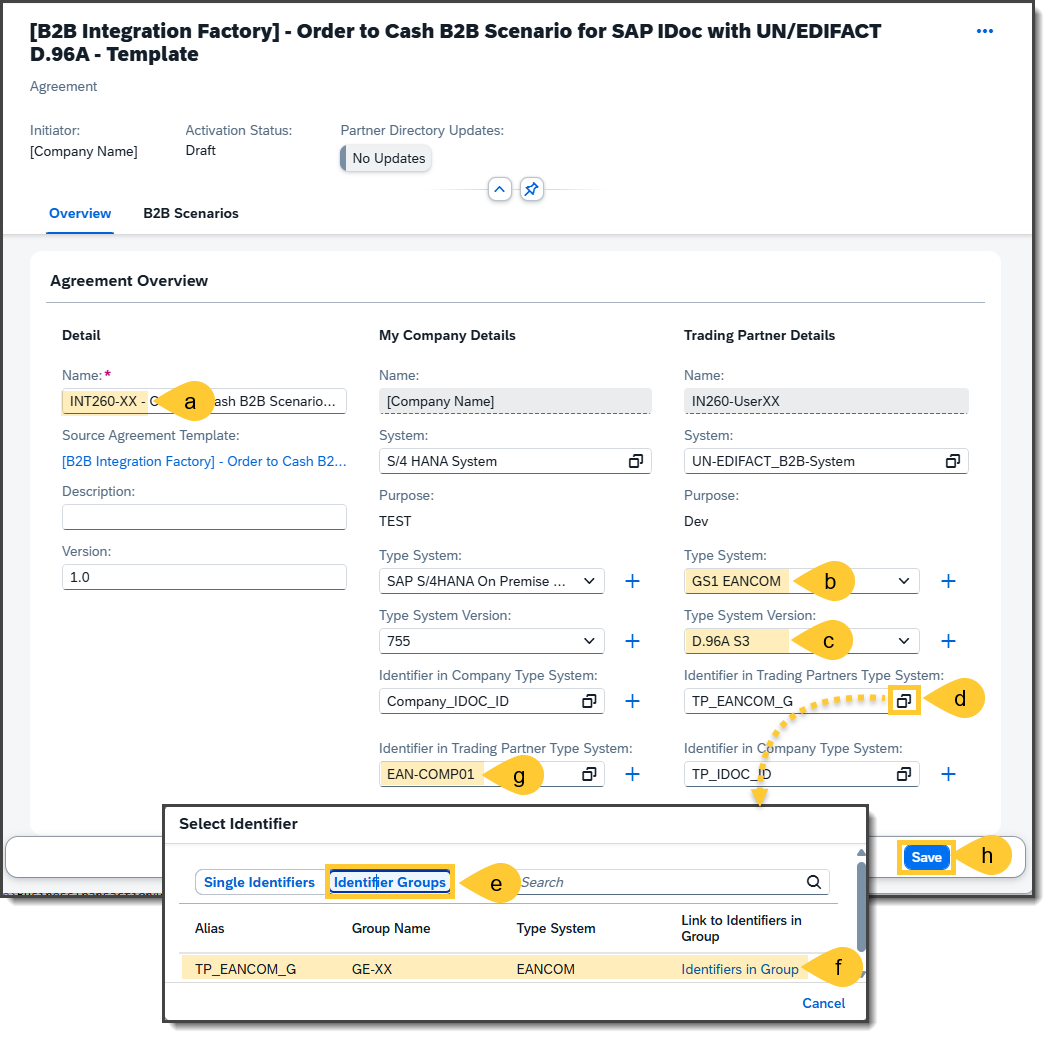
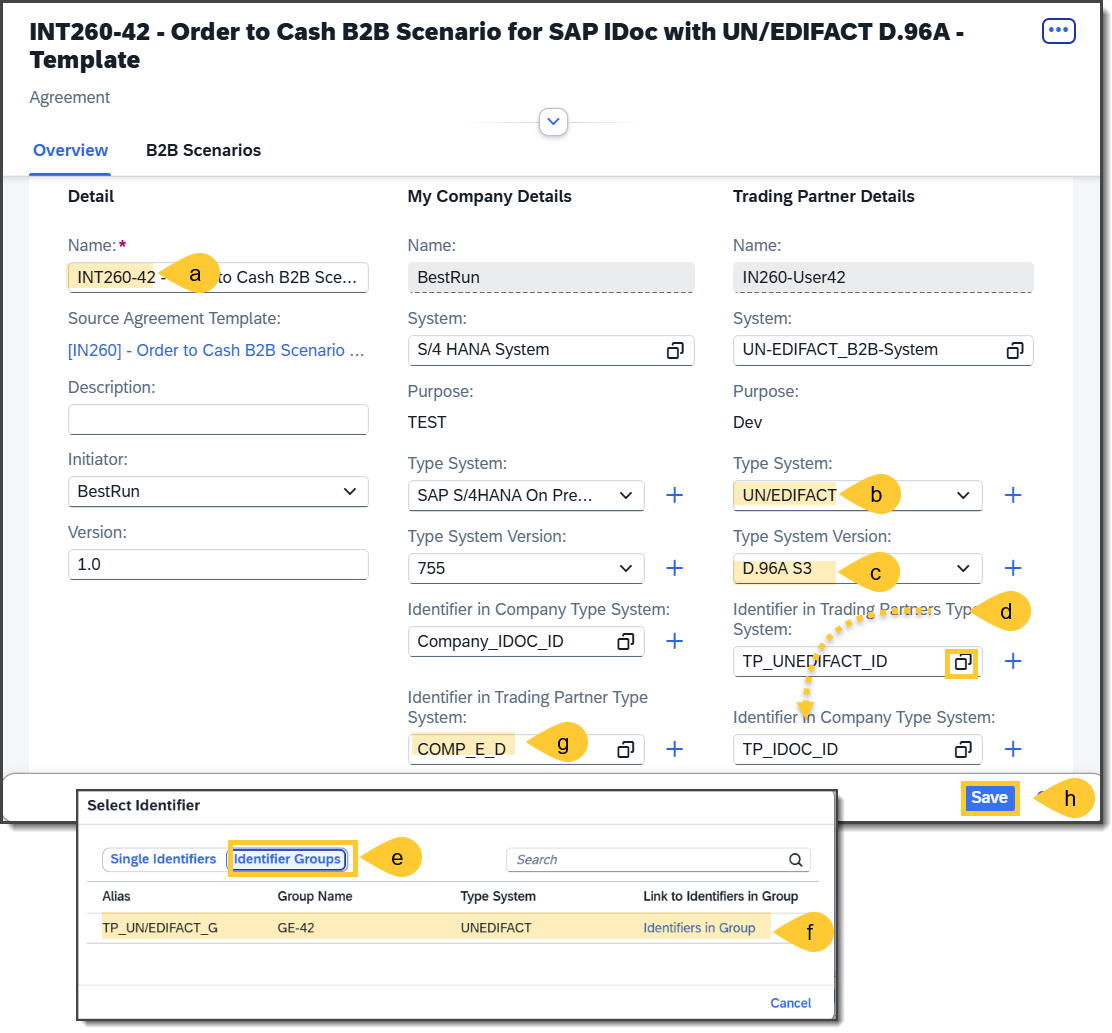
Corrections in Excercise 02, Step 07

diff --git a/exercises/Excercise_02.md b/exercises/Excercise_02.md
@@ -95,13 +95,13 @@ To create a new TPA (Trading Partner Agreement) in the Trading Partner Managemen
 
 ## Step 7 - Finalize the Overview of the TPA
 A new Trading Partner Agreement (TPA) for your trading partner will be created. You'll see as default the **Overview** tab of your TPA, where you should update and finalize the overview accordingly:
-- (a) Change your agreement's name and description where you substitute the term `[B2B Integration Factory]` with `INT260-XX`. Make sure to replace XX with your UserID and Trading Partner Name. 
-- (b) Ìn the **Trading Partner Details**, set the **Type System** value to `GS1 EANCOM`
+- (a) Change your agreement's name and description where you substitute the term `[IN260]` with `INT260-XX`. Make sure to replace XX with your UserID and Trading Partner Name. 
+- (b) Ìn the **Trading Partner Details**, set the **Type System** value to `UN/EDIFACT`
 - (c) Select in the same details the **Type System Version**: `D.96A S3`
 - (d) Click on **Identifier in Company Type System** on the value help to display a pop-up window.
 - (e) In this pop-up window, go to the tab **Identifier Groups**
 - (f) Select the identifier group with the **Group Name**: GE-XX (as you know, the XX is a placeholder for your user ID).
-- (g) In the **My Company Details** select in **Identifier in Trading Partner Type System** the value: `EAN-COMP01`.
+- (g) In the **My Company Details** select in **Identifier in Trading Partner Type System** the value: `COMP_E_D`.
 - (h) Click the **Save** button.
 
 ![IN260 Figure 02.07](assets/IN260_02.07.png)
